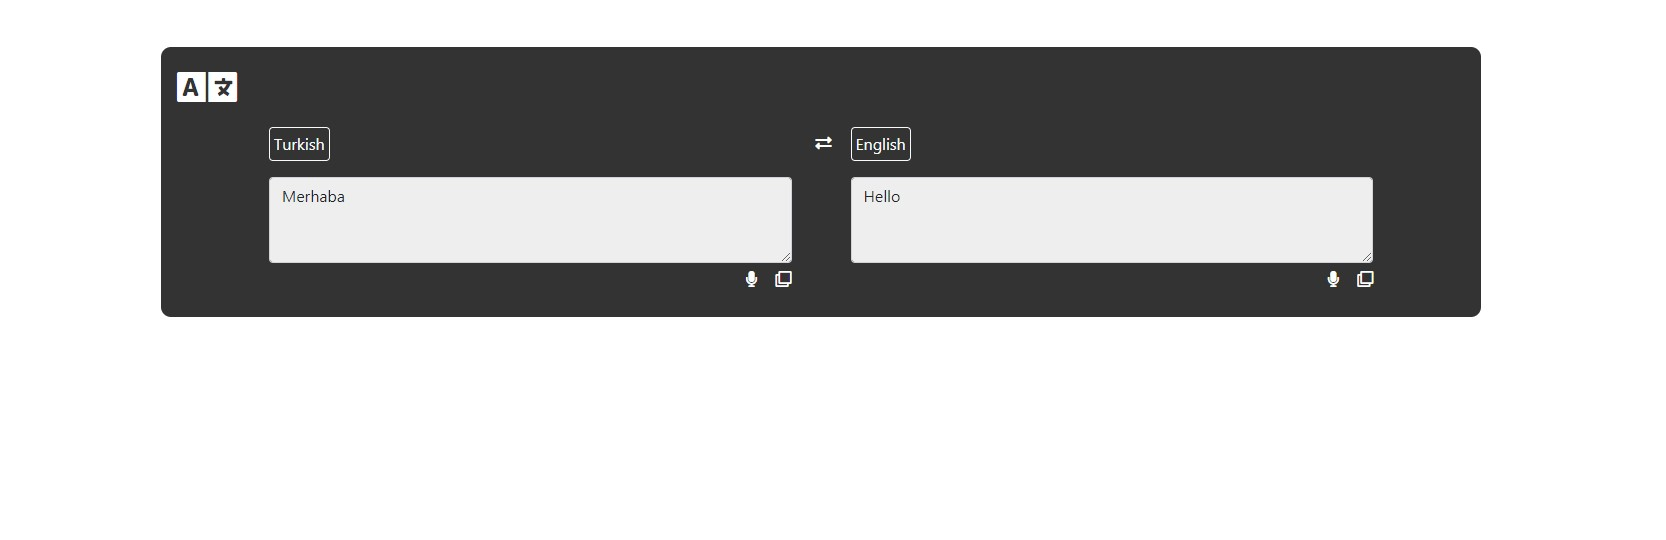
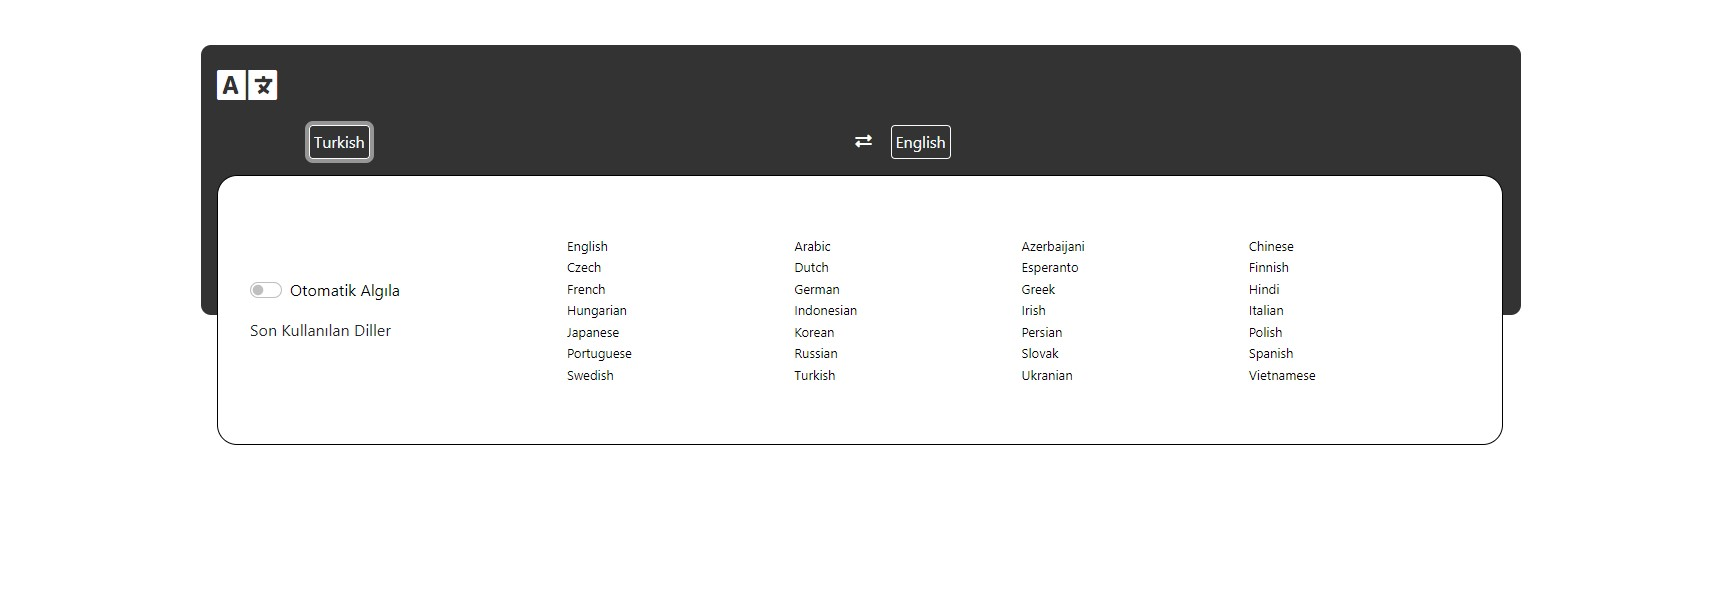
Screenshot added

Changed region(s): [[0.0936, 0.0593, 0.9052, 0.6519], [0.3121, 0.3852, 0.3433, 0.4444], [0.1248, 0.7111, 0.1561, 0.7407]]

diff --git a/README.md b/README.md
@@ -8,3 +8,10 @@ This is a practice app which includes API connections, Javascript and CSS
 - Bootstrap is used for design.
 - There are several functions are created such as copy text, switch languages, last used languages...
 - LocalStorage is used for last used languages.
+
+
+![Translate App](https://github.com/zeybusra/Translate-App/blob/main/Translate_1.jpg?raw=true)
+
+
+![Translate App](https://github.com/zeybusra/Translate-App/blob/main/Translate_2.jpg?raw=true)
+
